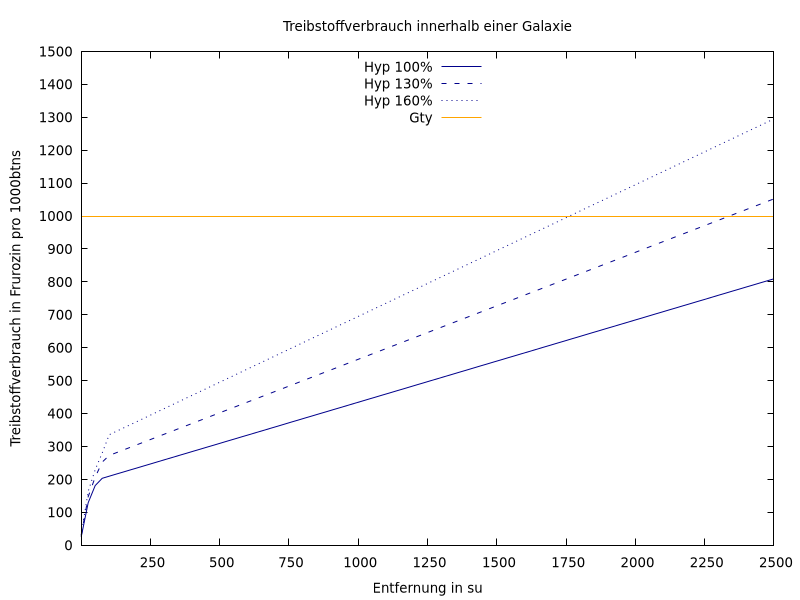
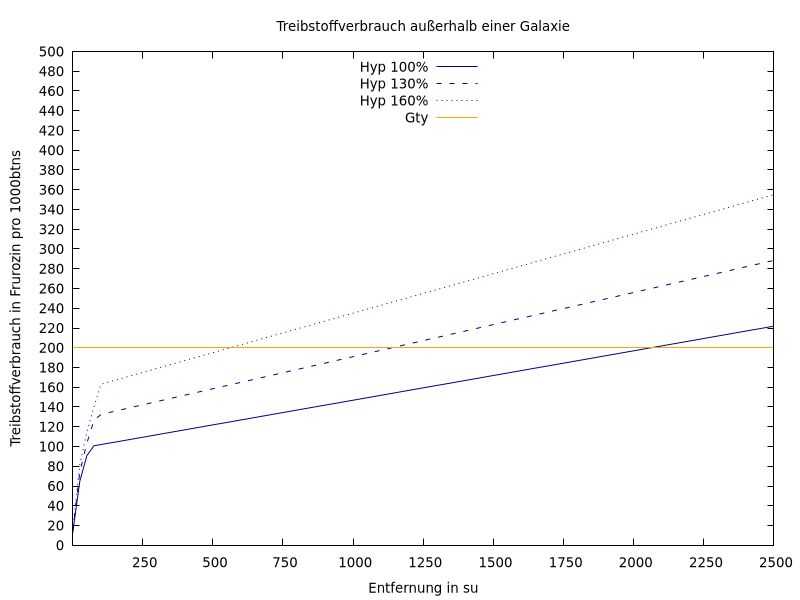
Treibstoffkosten gesenkt

diff --git a/src/config.php b/src/config.php
@@ -11,7 +11,7 @@ $config = [
                 'v_max' => 10 / 3600,
                 't_to_v_max' => 1 * 3600,
                 't_warmup' => 1 * 3600,
-                'verbrauch_max' => 50,
+                'verbrauch_max' => 20,
                 'verbrauch_pro_su' => 0
             ],
             'ion' => [
@@ -19,7 +19,7 @@ $config = [
                 'v_max' => 25 / 3600,
                 't_to_v_max' => 2 * 3600,
                 't_warmup' => 2.5 * 3600,
-                'verbrauch_max' => 20,
+                'verbrauch_max' => 8,
                 'verbrauch_pro_su' => 0
             ],
             'hyp' => [
@@ -27,13 +27,13 @@ $config = [
                 'v_max' => 500 / 3600,
                 't_to_v_max' => 0.125 * 3600,
                 't_warmup' => 4.5 * 3600,
-                'verbrauch_max' => 200,
-                'verbrauch_pro_su' => 0.25
+                'verbrauch_max' => 100,
+                'verbrauch_pro_su' => 0.05
             ],
             'gty' => [
                 'typ' => 'konstant',
                 't' => 4.5 * 3600,
-                'verbrauch' => 1000
+                'verbrauch' => 200
             ]
         ]
     ]
